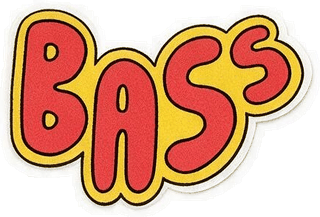
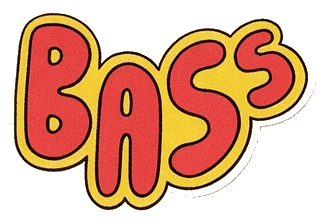
Les liserés des stickers, redessines a distance constante (#236)
"But the sticker you have, they are not properly outlined."

Juste, et mesurable. Deux defauts, pas un.

LE BLANC N'ETAIT PAS BLANC

Le liseré de bass.png portait 41 teintes differentes le long du bord, et la
plus frequente n'en couvrait que 9,2 %. bird.png en portait 71, chaching.png
89. C'est de la compression JPEG cuite dans le fichier puis quantifiee en
palette. A cote, fox.png, exporte proprement: une seule teinte sur 100 % du
bord. De loin, la difference se lit comme un halo gris et sale.

LE LISERÉ NE SUIVAIT PAS LA FORME

Il avait ete detoure a la main sur une image deja compressee, donc sa largeur
ondulait: gras ici, mince la, avec des bosses qui n'appartenaient a aucun trait
du dessin. Un liseré de sticker est un contour a distance constante. Celui-la
n'en etait pas un.

ET IL N'AVAIT AUCUN BORD DOUX

23 fichiers sur 33 avaient 0,00 % de pixels semi-transparents. Pas un seul
entre 1 et 254: un escalier, pas un contour. Les dix autres en ont entre 11 et
28 %, donc un vrai anti-crenelage, et ils ne sont pas touches: redessiner un
contour qui va deja bien ne peut que l'abimer.

CE QUE FAIT LE SCRIPT

Il retire l'anneau clair par DIFFUSION DEPUIS LE VIDE, pas par un seuil global.
La face du crane de skullfire est creme (247, 241, 202) et un seuil sur la
clarte la mangerait; la diffusion s'arrete sur les flammes rouges, donc elle ne
touche que l'anneau. Puis il dilate l'alpha du dessin d'un nombre constant de
[…]

Changed region(s): [[0.0, 0.0276, 1.0, 0.9677], [0.125, 0.4977, 0.2188, 0.6083]]

diff --git a/scripts/diecut.py b/scripts/diecut.py
@@ -1,0 +1,237 @@
+#!/usr/bin/env python3
+"""
+Redessiner le liseré blanc des stickers, a distance constante du dessin.
+
+  python3 scripts/diecut.py            # ce qui serait fait, sans rien ecrire
+  python3 scripts/diecut.py --write    # ecrit dans src/assets/stickers
+
+Meme arrangement que scripts/brand-icons.py: un generateur dont la sortie est
+commitee, parce que l'alternative est une etape de build qui demande Pillow sur
+chaque machine qui construit ce site.
+
+CE QUI A ETE RAPPORTE
+
+  "But the sticker you have, they are not properly outlined."
+
+Juste, et mesurable. Deux defauts, pas un.
+
+1. LE BLANC N'EST PAS BLANC. Le liseré de bass.png porte 62 teintes claires
+   differentes et la plus frequente ne couvre que 4,1 % du liseré.
+   skullfire.png en porte 108, la plus frequente 2,4 %. C'est de la
+   compression JPEG cuite dans le fichier puis quantifiee en palette. A cote,
+   fox.png porte 9 teintes claires et 95,7 % du liseré tient sur UNE valeur,
+   (254, 254, 254). Voila a quoi ressemble un liseré propre.
+
+2. LE LISERÉ NE SUIT PAS LA FORME. Il a ete detoure a la main sur une image
+   deja compressee, donc sa largeur ondule: gras ici, mince la, avec des
+   bosses qui n'appartiennent a aucun trait du dessin. Un liseré de sticker
+   est un contour a distance constante. Celui-la n'en etait pas un.
+
+CE QUE FAIT CE SCRIPT
+
+  a. Retire l'anneau clair qui entoure le dessin, trouve par DIFFUSION DEPUIS
+     LE VIDE et non par un seuil global. La face du crane de skullfire est
+     creme (247, 241, 202): un seuil sur la clarte la mangerait. La diffusion
+     s'arrete sur les flammes rouges, donc elle ne touche que l'anneau.
+  b. Dilate l'alpha du dessin d'un nombre CONSTANT de pixels.
+  c. Remplit de blanc franc, (255, 255, 255), une seule valeur.
+  d. Adoucit le bord exterieur, parce qu'il n'y en avait aucun: ces fichiers
+     ont 0,00 % de pixels semi-transparents, donc un escalier au lieu d'un
+     contour.
+
+QUELS FICHIERS IL TOUCHE, ET POURQUOI CE N'EST PAS UNE LISTE
+
+Ceux dont l'alpha est FRANC: aucun pixel entre 1 et 254. C'est la signature
+d'un detourage a l'emporte-piece. Les dix autres du dossier ont entre 11 % et
+28 % de pixels doux, donc un vrai contour anti-crenele, et on n'y touche pas:
+les redessiner changerait un dessin qui va bien.
+
+Une regle mesuree plutot qu'une liste de noms, pour la meme raison que
+src/lib/art.js globe le dossier au lieu de tenir un registre.
+"""
+import sys
+from collections import Counter, deque
+from pathlib import Path
+
+try:
+    from PIL import Image, ImageFilter
+except ImportError:
+    sys.exit("Pillow manquant:  pip install pillow")
+
+DOSSIER = Path(__file__).resolve().parent.parent / 'src' / 'assets' / 'stickers'
+
+# Un pixel de liseré: clair et sans couleur. Le creme du crane (247,241,202)
+# a un ecart de 45 entre son maximum et son minimum, donc il passe au travers.
+CLAIR = 196
+ECART = 26
+
+# La largeur du liseré, en proportion du grand cote, pour qu'un petit sticker
+# n'herite pas d'un contour de gros. 3,5 % donne 11 px sur 320, soit environ
+# 2,5 px a la taille ou ils s'affichent.
+LARGEUR = 0.035
+MINI = 6
+
+
+def alpha_franc(im):
+    """Aucun pixel entre 1 et 254: decoupe a l'emporte-piece."""
+    hist = im.convert('RGBA').getchannel('A').histogram()
+    return sum(hist[1:255]) == 0
+
+
+def sans_lisere(im):
+    """L'illustration seule, l'anneau clair retire par diffusion depuis le vide."""
+    im = im.convert('RGBA')
+    w, h = im.size
+    px = im.load()
+
+    def clair(p):
+        r, g, b, a = p
+        return a > 128 and min(r, g, b) >= CLAIR and (max(r, g, b) - min(r, g, b)) <= ECART
+
+    vu = [[False] * w for _ in range(h)]
+    q = deque()
+    for y in range(h):
+        for x in range(w):
+            if px[x, y][3] <= 128:
+                for dx, dy in ((1, 0), (-1, 0), (0, 1), (0, -1)):
+                    i, j = x + dx, y + dy
+                    if 0 <= i < w and 0 <= j < h and not vu[j][i] and clair(px[i, j]):
+                        vu[j][i] = True
+                        q.append((i, j))
+    n = 0
+    while q:
+        x, y = q.popleft()
+        n += 1
+        for dx, dy in ((1, 0), (-1, 0), (0, 1), (0, -1)):
+            i, j = x + dx, y + dy
+            if 0 <= i < w and 0 <= j < h and not vu[j][i] and clair(px[i, j]):
+                vu[j][i] = True
+                q.append((i, j))
+
+    art = im.copy()
+    ap = art.load()
+    for y in range(h):
+        for x in range(w):
+            if vu[y][x]:
+                ap[x, y] = (0, 0, 0, 0)
+    return art, n
+
+
+def lisere(art):
+    """Le contour, redessine a distance constante."""
+    w, h = art.size
+    anneau = max(MINI, round(max(w, h) * LARGEUR))
+    marge = anneau + 4
+    grand = Image.new('RGBA', (w + 2 * marge, h + 2 * marge), (0, 0, 0, 0))
+    grand.alpha_composite(art, (marge, marge))
+
+    masque = grand.getchannel('A').point(lambda v: 255 if v > 110 else 0)
+    reste = anneau
+    while reste > 0:
+        pas = min(reste, 7)  # MaxFilter veut un noyau impair et raisonnable
+        masque = masque.filter(ImageFilter.MaxFilter(pas * 2 + 1))
+        reste -= pas
+    # Arrondir les angles que la dilatation carree laisse, puis adoucir: c'est
+    # ce flou final qui donne les pixels semi-transparents qui manquaient.
+    masque = masque.filter(ImageFilter.GaussianBlur(0.7)).point(lambda v: 255 if v > 128 else 0)
+    masque = masque.filter(ImageFilter.GaussianBlur(0.6))
+
+    out = Image.new('RGBA', grand.size, (255, 255, 255, 0))
+    out.putalpha(masque)
+    out.alpha_composite(grand)
+    return out.crop(out.getchannel('A').getbbox())
+
+
+def teintes_bord(im):
+    """Combien de valeurs differentes le LISERÉ porte, et la part de la plus
+    frequente.
+
+    Mesure sur le bord, pas sur tous les pixels clairs de l'image. La premiere
+    version comptait partout, et rendait donc 102 teintes pour cloudguy apres
+    correction: ses chaussures et ses yeux sont blancs, et ils n'ont rien a
+    voir avec le liseré. Un chiffre qui repond a une autre question que celle
+    posee est pire qu'aucun chiffre.
+
+    Le bord, ici, c'est l'anneau opaque qui touche la transparence.
+    """
+    im = im.convert('RGBA')
+    w, h = im.size
+    px = im.load()
+    c = Counter()
+    for y in range(1, h - 1):
+        for x in range(1, w - 1):
+            r, g, b, a = px[x, y]
+            if a != 255:
+                continue
+            if min(px[x - 1, y][3], px[x + 1, y][3], px[x, y - 1][3], px[x, y + 1][3]) < 255:
+                c[(r, g, b)] += 1
+    tot = sum(c.values())
+    if not tot:
+        return 0, 0.0
+    return len(c), c.most_common(1)[0][1] / tot * 100
+
+
+def pct_doux(im):
+    """La part de pixels semi-transparents: un contour anti-crenele en a,
+    une decoupe a l'emporte-piece en a zero."""
+    im = im.convert('RGBA')
+    hist = im.getchannel('A').histogram()
+    return sum(hist[1:255]) / (im.width * im.height) * 100
+
+
+def enregistrer(im, chemin, cible_ko=40):
+    """En palette, pas en couleurs vraies.
+
+    La premiere version ecrivait du RGBA: liseré parfait, et des fichiers de
+    115 ko la ou le README du dossier en demande moins de 40. Trente fichiers
+    de decoration a ce prix, c'est trois megaoctets sur une page que quelqu'un
+    ouvre au telephone.
+
+    FASTOCTREE, et pas MEDIANCUT: seul le premier quantifie l'alpha en meme
+    temps que la couleur, ce qui est tout l'interet ici. Une palette PNG porte
+    la transparence par entree (chunk tRNS), donc le bord doux survit; c'est
+    exactement ce que font les dix stickers du dossier qui allaient deja bien,
+    avec leurs 96 couleurs.
+
+    On descend le nombre de couleurs jusqu'a tenir sous la cible. Un liseré
+    blanc et un aplat de dessin animé ne demandent pas 256 teintes.
+    """
+    for n in (128, 96, 64, 48):
+        q = im.convert('RGBA').quantize(colors=n, method=Image.FASTOCTREE)
+        q.save(chemin, optimize=True)
+        if chemin.stat().st_size <= cible_ko * 1024:
+            return n
+    return n
+
+
+def main():
+    ecrire = '--write' in sys.argv
+    fichiers = sorted(p for p in DOSSIER.glob('*.png'))
+    touches = 0
+    print(f"{'fichier':16} {'teintes du lisere':>18} {'dominante':>20} {'doux':>14} {'poids':>9}")
+    for p in fichiers:
+        im = Image.open(p)
+        if not alpha_franc(im):
+            continue
+        av_n, av_dom = teintes_bord(im)
+        av_doux = pct_doux(im)
+        art, _ = sans_lisere(im)
+        neuf = lisere(art)
+        ap_n, ap_dom = teintes_bord(neuf)
+        ap_doux = pct_doux(neuf)
+        if ecrire:
+            enregistrer(neuf, p)
+            poids = f"{p.stat().st_size // 1024} ko"
+        else:
+            poids = "(essai)"
+        touches += 1
+        print(f"  {p.name:14} {av_n:>7} -> {ap_n:<7} {av_dom:>8.1f}% -> {ap_dom:<8.1f}%"
+              f" {av_doux:>5.1f}% -> {ap_doux:<5.1f}% {poids:>9}")
+    print(f"\n{touches} fichiers sur {len(fichiers)}."
+          f" Les autres ont deja un contour anti-crenele et sont laisses tels quels.")
+    if not ecrire:
+        print("Rien n'a ete ecrit. Relancer avec --write.")
+
+
+if __name__ == '__main__':
+    main()

diff --git a/src/assets/stickers/README.md b/src/assets/stickers/README.md
@@ -20,6 +20,29 @@ Delete one and it disappears just as cleanly.
 A white die-cut outline drawn *as part of the artwork* is the look and is
 welcome, that is different from a white background.
 
+## The outline, if the export has none or a bad one
+
+```
+python3 scripts/diecut.py            # what it would do, writes nothing
+python3 scripts/diecut.py --write
+```
+
+It strips whatever pale ring surrounds the art and draws a new one at a
+constant distance, in one flat white, with a soft outer edge. Run it on any
+art that arrives without a die-cut border, or with a ragged one.
+
+It only touches files whose alpha is hard, meaning no pixel between 1 and 254,
+which is the signature of a cut-out made on an already-compressed image. Art
+with a real anti-aliased edge is left alone, because redrawing an outline that
+is already right can only make it worse.
+
+Why it was needed once already: 23 of the 33 files here carried a white ring
+made of dozens of near-white values rather than one. `bass.png` had 41 shades
+along its outline with the commonest covering 9% of it; `fox.png`, exported
+properly, had one shade covering 100%. At a glance it read as a grey, dirty
+halo, and the outline wandered in width because it had been traced by hand
+over JPEG mush.
+
 ## Naming
 
 Lowercase, no spaces: `skull.png`, `pizza.png`, `blue-cat.png`. The filename is
